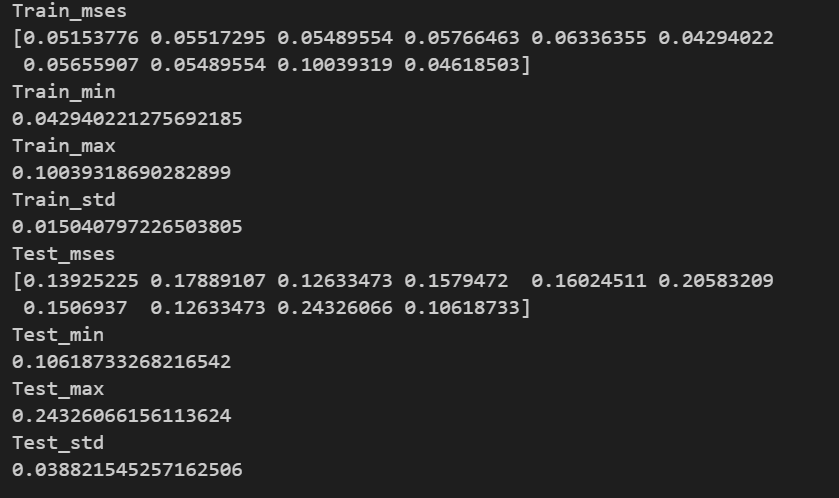
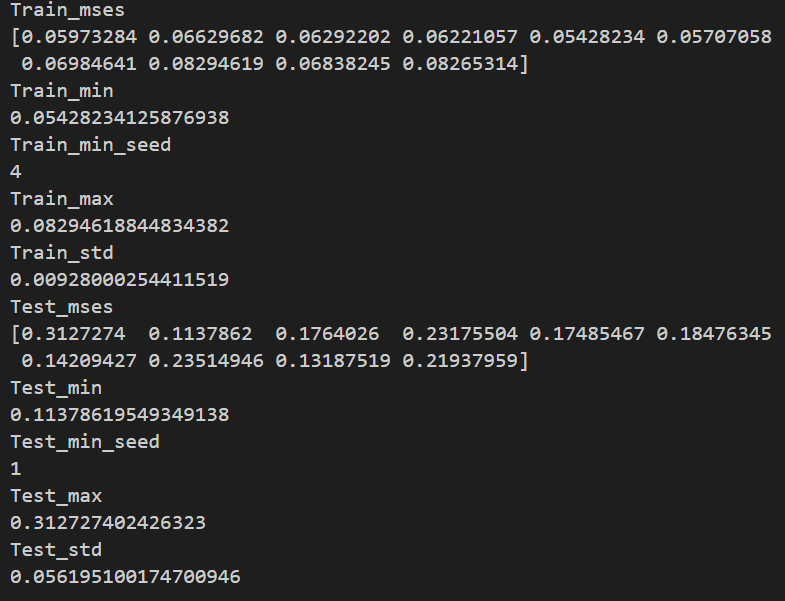
Update the report(1.1)

Changed region(s): [[0.0, 0.0, 0.9783, 0.994]]

diff --git a/report/report.tex b/report/report.tex
@@ -21,8 +21,72 @@
 
 \section{Regression with Neural Networks}
 \subsection{Simple Regression with Neural Networks}
-\subsection{Regularized Neural Networks}
+\subsubsection{Learned function}
 
+These following graphs are regression functions with 2,8 and 40 hidden neurons.\\
+\begin{figure}[h]
+\includegraphics[width=0.5\textwidth]{ex_1_1_a_2.png}
+\caption{hidden nueron = 2}
+\includegraphics[width=0.5\textwidth]{ex_1_1_a_8.png}
+\caption{hidden nueron = 8}
+\includegraphics[width=0.5\textwidth]{ex_1_1_a_40.png}
+\caption{hidden nueron = 40}
+\end{figure}
+
+\noindent
+a) 2 hidden neurons \\
+It is underfitted because the dimension is too small.\\
+
+\noindent
+b) 8 hidden neurons\\
+It is well fitted. \\
+
+\noindent
+c) 40 hidden neurons \\
+It is the best fit to the dataset. I thought that there would be overfitting because hidden neuron number is large. However, it didn't. I think the iteration number is small like 200 so there is not enough iterations to be overfitted. Therefore, I guess if the iteration number is increased, the graph will be overfitted.\\
+
+\subsubsection{Variability of the performance of deep neural networks}
+This is  minimum, maximum, mean and standard deviation of the mean square error obtained on the training set and test set. \\
+\begin{figure}[h]
+\includegraphics[width=0.5\textwidth]{ex_1_1_b.png}\\
+\caption{min, max, mean and std of MSE}
+\end{figure}
+Even though 5th seed is the min of train error, second seed is the min of test error. As the above result, the min of train error doesn't ensure the mind of test error. If the regression graph is overfitted to the train data, it will have really low train error but have high test error. To prevent this overfitting problem, we can use validaiton set. Before seed the train dataset to the regressor, we divide the train dataset into new train dataset and validation dataset. Therfore, we can select the seed depending not on the min of train error but on the validation error. By doing this, we can avoid overfitting problem and get more accurate regression function.\\
+Even if the algorithm converged, the variability of the MSE across seeds is expected. It is because neural networks can select the graph shape freely. In the case of linear-regression and logistic regression, its dimension(graph shape) is decided by parameter. However, in the case of nerual networks, the graph shape can be decided by neural networks learning. Therefore, depending on the random seed, the optimal graph shape can be different even though the alogorithm converged. That is, the different optimal graph shape makes the variability of the MSE across seeds.\\
+Standard Gardient Descent(GD) takes long time to cacluate the whole dataset gradient. Therefore, SGD is invented because of time problem. SGD doesn't calculate the whole dataset gradient but the data subset gradient. Then, it can save time. In this process, SGD will use randomness to select the data subset. Actually, it is true that the subset gradient also resembles the whole dataset gradient. Even if SGD is replaced by standard Gradient Descent, it still use randomness to initialize the neuron networks in the first step.\\
+\clearpage
+\subsubsection{Varying the number of hidden neurons}
+This following graph is the MSE plot depending on the hidden neuron number.\\
+\begin{figure}[h]
+\includegraphics[width=0.5\textwidth]{ex_1_1_c.png}\\
+\caption{MSE plot with the hidden neuron number(n = [1,2,3,4,6,8,12,20,40])}
+\end{figure}\\
+The best value of $n_h$ independently of the choice of the random seed, is \b 6.\\
+Before 6, it is underfitted Therefore, as the hidden neuron number increase, the MSE decreases.
+This following graph is the learned function for one of the models trained with $n_h = 40 (max-iter=10000, tol=1e-8)$\\
+\begin{figure}[h]
+\includegraphics[width=0.5\textwidth]{ex_1_1_c_40.png}\\
+\caption{learned function of $n_h = 40 (max-iter=10000, tol=1e-8)$}
+\end{figure}\\
+As the figure 6 shows, the function of 40 hidden neurons is overfitted to the train dataset. And, as the figure 5 shows, the MSE of the test dataset starts increase from hidden neuron number 8 even though the MSE of train dataset still decreases. It means that it starts to be overfitted to the train dataset.\\
+\clearpage
+\subsubsection{Variations of MSE during training}
+These plots are the the variations of the MSE with three diﬀerent number of hidden neurons(2,8 and 40) for solvers('lbfgs','sgd' and 'adam')\\
+\begin{figure}[h]
+	\includegraphics[width=0.4\textwidth]{ex_1_1_d_lbfgs.png}\\
+	\caption{MSE plot with the hidden neuron number(2,4 and 8) and solver lbfgs}
+	\includegraphics[width=0.4\textwidth]{ex_1_1_d_sgd.png}\\
+	\caption{MSE plot with the hidden neuron number(2,4 and 8) and solver sgd}
+	\includegraphics[width=0.4\textwidth]{ex_1_1_d_adam.png}\\
+	\caption{MSE plot with the hidden neuron number(2,4 and 8) and solver adam}
+\end{figure}
+\\
+\noindent
+As Figure 7 shows, the hidden neuron number 8 has the lowest MSE. It means that the risk of overfitting increases as the number of hidden neurons increases.\\
+Adam(stochastic gradient-based optimizer) seems to perform best in this problem. Actually, Adam performs well on large datasets and lbfgs(optimizer in the family of quasi-Newton methods) can converge faster and perform better on small datasets. In this problem, the size of dataset is approximately over 1000. Therfore, Adam performs best.\\
+The interesting fact of Figure 9 is that it seems to overcome overfitting problem in the case of hidden neuron number 40. Adam(stochastic gradient-based optimizer) can overcome the overfitting problem by sub-sampling the whole dataset. Overfitting problem can occur because it is exactly fitted to the train set but if Adam uses sub-sampling, it can avoid this by fitting the optimal function to the data subset.\\
+I think Adam works well when the number of nuerons increases. Because, when the number of neruons increases, the risk of overfitting problem also increase. Then, Adam can avoid the overfitting problem by sub-sampling. That is, Adam is more appropriate than other solvers.
+\subsection{Regularized Neural Networks}
 \section{Face Recognition with Neural Networks}
 \subsection{Pose Recognition}
 \subsection{Face Recognition}

diff --git a/nn_regression.py b/nn_regression.py
@@ -45,8 +45,8 @@ def ex_1_1_a(x_train, x_test, y_train, y_test):
     :param y_test: The testing targets
     :return:
     """
-    n_hidden = 8
-    trained_regressor = MLPRegressor(hidden_layer_sizes=(n_hidden, ), activation='logistic', solver='lbfgs', alpha=0, max_iter=200, random_state=1)
+    n_hidden = 40
+    trained_regressor = MLPRegressor(hidden_layer_sizes=(n_hidden, ), activation='logistic', solver='lbfgs', alpha=0, max_iter=200, random_state=1000)
     trained_regressor = trained_regressor.fit(x_train,y_train)
     y_pred_train = trained_regressor.predict(x_train)
     y_pred_test = trained_regressor.predict(x_test)
@@ -77,6 +77,8 @@ def ex_1_1_b(x_train, x_test, y_train, y_test):
     print (train_mses)
     print ("Train_min")
     print (train_mses.min())
+    print ("Train_min_seed")
+    print (np.argmin(train_mses))
     print ("Train_max")
     print (train_mses.max())
     print ("Train_std")
@@ -86,6 +88,8 @@ def ex_1_1_b(x_train, x_test, y_train, y_test):
     print (test_mses)
     print ("Test_min")
     print (test_mses.min())
+    print ("Test_min_seed")
+    print (np.argmin(test_mses))
     print ("Test_max")
     print (test_mses.max())
     print ("Test_std")
@@ -146,7 +150,7 @@ def ex_1_1_d(x_train, x_test, y_train, y_test):
     test_mses = numpy.zeros((3,n_iterations))
     r = 0
     for n_hidden_neuron in hidden_neurons_list :
-        trained_regressor = MLPRegressor(warm_start = True, hidden_layer_sizes=(n_hidden_neuron, ), activation='logistic', solver='sgd', alpha=0,tol= 1e-8, max_iter=1)
+        trained_regressor = MLPRegressor(warm_start = True, hidden_layer_sizes=(n_hidden_neuron, ), activation='logistic', solver='adam', alpha=0,tol= 1e-8, max_iter=1)
         for i in range(n_iterations):
             trained_regressor = trained_regressor.fit(x_train,y_train)
             train_mses[r][i] = calculate_mse(trained_regressor,x_train,y_train)
@@ -284,5 +288,5 @@ def ex_1_2_c(x_train, x_test, y_train, y_test):
     print (val_mse_list[ind])
     print ("Test error : ")
     print (test_mse_list[ind])
-    
+
     pass
